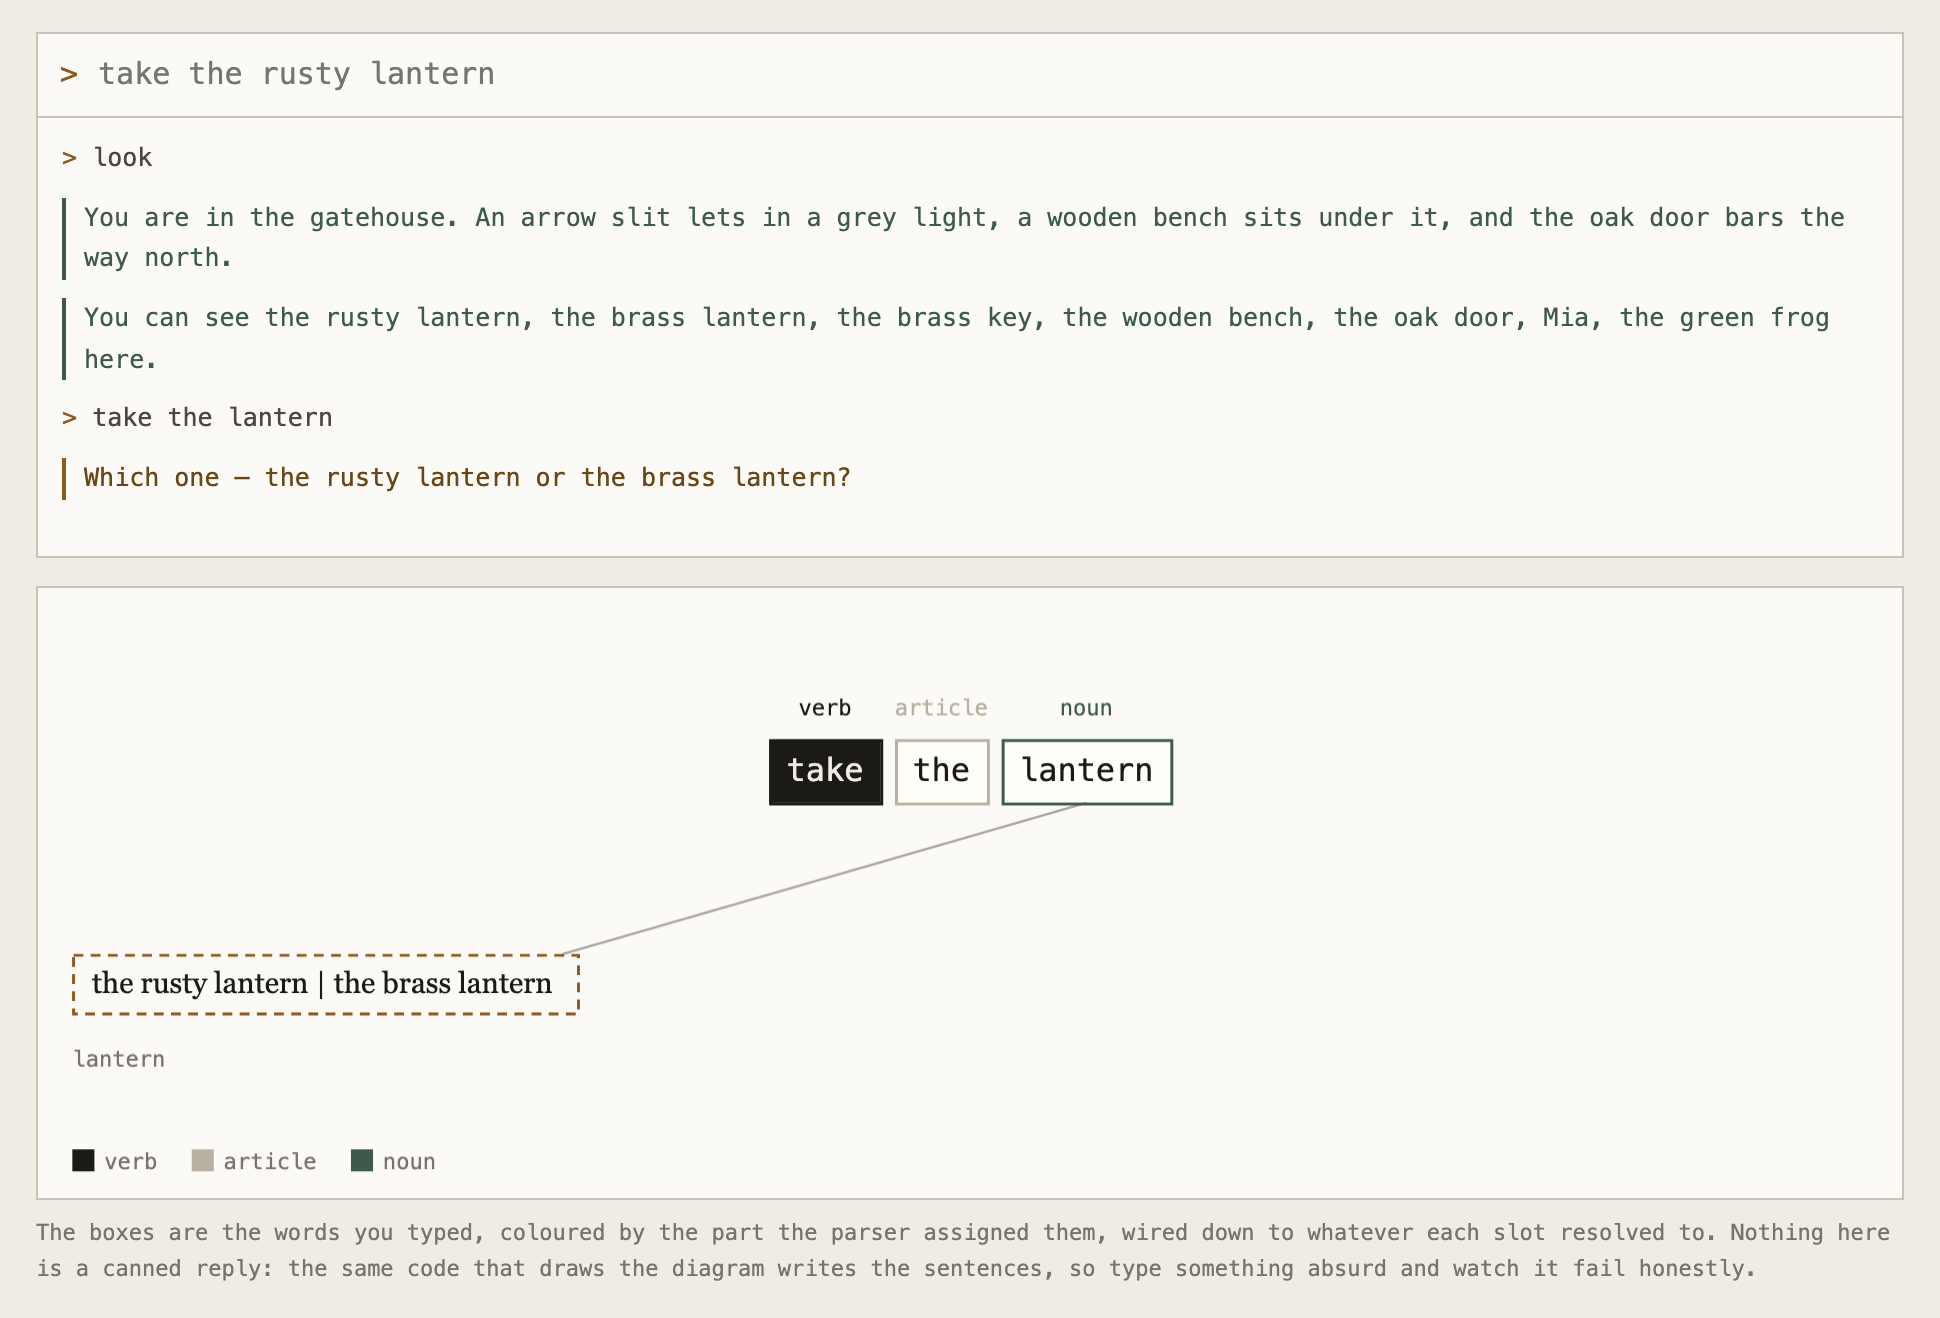
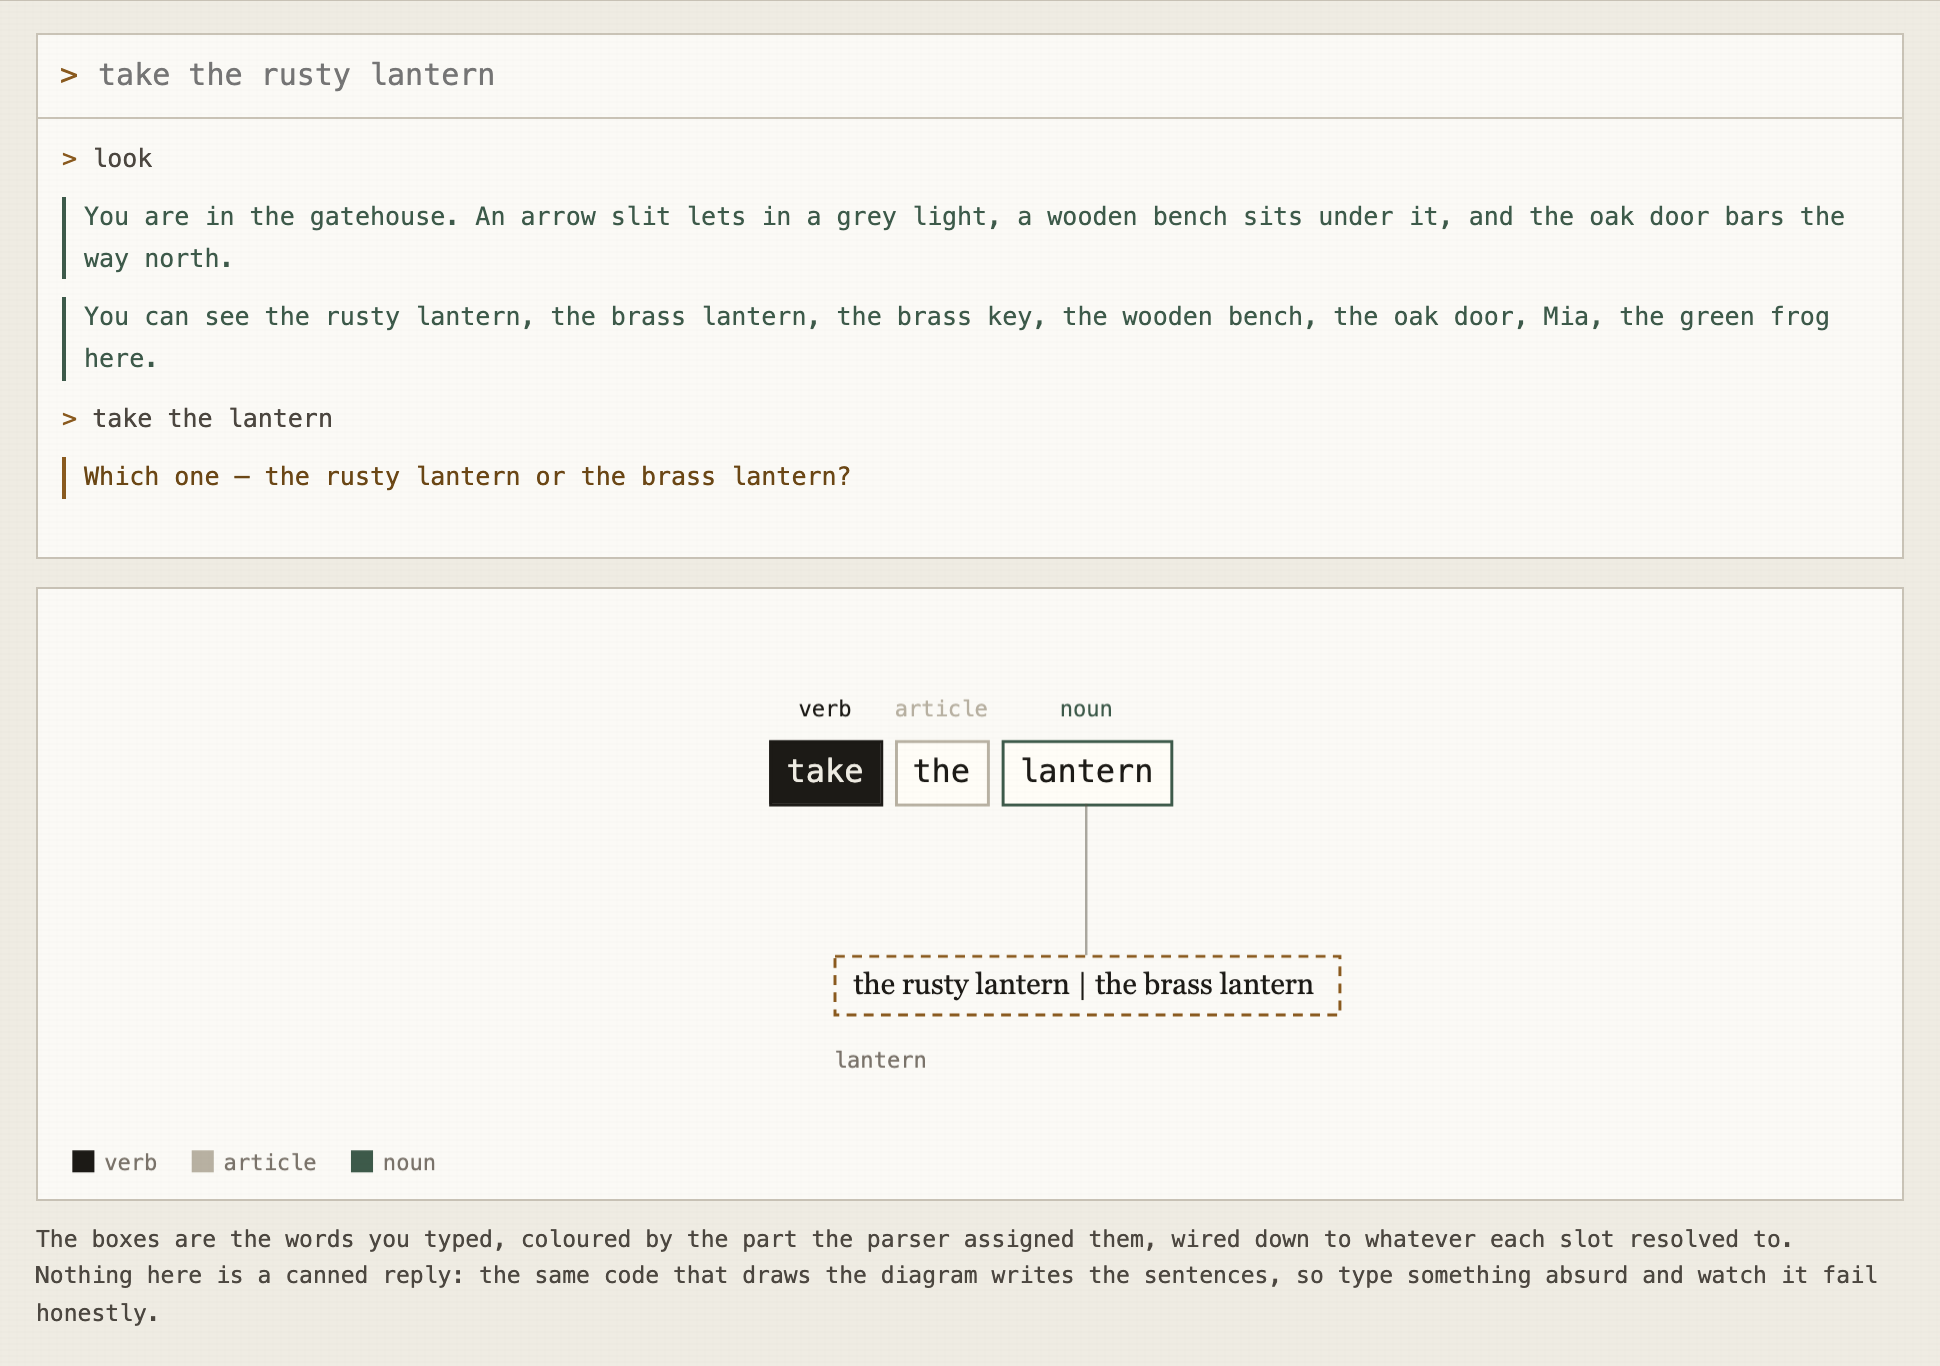
Bring the two tool pages up to the homepage's standard
They were built function-first and it showed. Three faults they shared:

- The masthead was a 22px word and a line of grey mono, next to a homepage
  with a real name block. Both now carry a serif wordmark, a tagline, and a
  right-hand facts line, and both get the same paper fibre as the homepage,
  so the three pages read as one product.
- Instructions were walls of 11px grey mono. Roomsmith's three operations are
  now a marked list with the word in ink and the explanation in grey; the
  parser's grammar notes became four marked rules with the prose kept as the
  footnote. Hint text is 11.5px in ink2 and capped at 78 characters.
- Roomsmith's direction pad sat at .4 opacity when the exit tool was not
  active, which reads as broken rather than idle. It is .55 now.

The parser diagram had a layout bug of its own: resolved boxes were packed
from the left edge, so a two-slot command left the entire right half of the
canvas empty and the boxes bore no relation to the words that produced them.
They are measured first, then dropped under the centre of their own anchors.

Captures on the homepage re-shot from these builds, since the page claims
they come from the current one. Both suites still pass: 21 for Roomsmith,
52 for the parser.

diff --git a/parser/index.html b/parser/index.html
@@ -11,13 +11,19 @@
   --brass:#8a5a1e;--oxide:#3d5a4a;--bad:#9a3a2a;--panel:#e6e2d7}
 *{box-sizing:border-box}
 body{margin:0;background:var(--paper);color:var(--ink);font:16px/1.6 Georgia,'Times New Roman',serif}
+body::before{content:"";position:fixed;inset:0;pointer-events:none;opacity:.5;
+  background-image:repeating-linear-gradient(0deg,rgba(0,0,0,.014) 0 1px,transparent 1px 3px),
+                   repeating-linear-gradient(90deg,rgba(0,0,0,.01) 0 1px,transparent 1px 4px)}
 .mono{font-family:ui-monospace,Menlo,Consolas,monospace}
-header{display:flex;gap:14px;align-items:baseline;padding:18px 20px 14px;border-bottom:3px double var(--rule);flex-wrap:wrap}
-h1{font-size:22px;margin:0;font-weight:400}
+header{display:flex;gap:18px;align-items:flex-end;padding:26px 22px 16px;border-bottom:3px double var(--rule);flex-wrap:wrap}
+h1{font-size:clamp(26px,3.4vw,36px);line-height:1;margin:0;font-weight:400;letter-spacing:-.01em}
 h1 b{font-weight:700}
-header p{margin:0;font:11px/1.5 ui-monospace,Menlo,monospace;color:var(--ink3);letter-spacing:.05em}
-.back{margin-left:auto;font:12px/1 ui-monospace,Menlo,monospace;color:var(--ink3);text-decoration:none}
-.back:hover{color:var(--brass)}
+.tag{margin:7px 0 0;font:11px/1.5 ui-monospace,Menlo,monospace;color:var(--ink2);letter-spacing:.05em}
+.mast-r{margin-left:auto;display:grid;gap:7px;justify-items:end;text-align:right}
+.mast-r .facts{font:11px/1.5 ui-monospace,Menlo,monospace;color:var(--ink3)}
+.back{font:12px/1 ui-monospace,Menlo,monospace;color:var(--ink2);text-decoration:none;
+  border-bottom:1px solid var(--rule)}
+.back:hover{color:var(--brass);border-bottom-color:var(--brass)}
 main{display:grid;grid-template-columns:220px 1fr 250px;gap:0;align-items:start}
 @media(max-width:900px){main{grid-template-columns:1fr}}
 .panel{padding:14px 16px;border-right:1px solid var(--rule)}
@@ -45,16 +51,27 @@ ul.world{list-style:none;margin:0;padding:0;font:11.5px/1.6 ui-monospace,Menlo,m
 ul.world li{padding:3px 0;border-bottom:1px dotted var(--rule)}
 ul.world li b{font-weight:400;color:var(--ink)}
 ul.world li em{font-style:normal;color:var(--brass)}
-.hint{font:11px/1.6 ui-monospace,Menlo,monospace;color:var(--ink3);margin:8px 0 0}
+.hint{font:11.5px/1.65 ui-monospace,Menlo,monospace;color:var(--ink2);margin:10px 0 0}
+.hint b{color:var(--ink);font-weight:700}
+ul.steps{list-style:none;margin:10px 0 0;padding:0;font:11.5px/1.6 ui-monospace,Menlo,monospace;color:var(--ink2)}
+ul.steps li{padding-left:17px;position:relative;margin-bottom:8px}
+ul.steps li::before{content:"";position:absolute;left:0;top:.55em;width:6px;height:6px;
+  background:var(--brass);opacity:.8}
+ul.steps b{color:var(--ink);font-weight:700}
 #tree{margin:0;font:11px/1.55 ui-monospace,Menlo,monospace;color:var(--ink2);white-space:pre-wrap;
   background:#fbfaf6;border:1px solid var(--rule);padding:9px 10px;min-height:120px}
 </style>
 </head>
 <body>
 <header>
-  <h1>PARSER<b>LAB</b></h1>
-  <p class="mono">the command grammar from a MUD server, pulled out and rewritten small</p>
-  <a class="back mono" href="../">&larr; portfolio</a>
+  <div>
+    <h1>PARSER<b>LAB</b></h1>
+    <p class="tag">the command grammar from a MUD server, pulled out and rewritten small</p>
+  </div>
+  <div class="mast-r">
+    <a class="back mono" href="../">&larr; portfolio</a>
+    <span class="facts">vanilla js · no build · every reply generated</span>
+  </div>
 </header>
 
 <main>
@@ -98,14 +115,15 @@ ul.world li em{font-style:normal;color:var(--brass)}
     </div>
     <div class="group">
       <h2>How it reads you</h2>
-      <p class="hint">Verb first, then noun phrases, then a preposition with its own noun phrase.
-        A noun phrase is articles and fillers, then modifiers, then a noun. Any word left over
-        disqualifies the candidate rather than being ignored, so the parser never pretends to
-        understand <span class="mono">the green lantern</span> when no green lantern exists.</p>
-      <p class="hint">Two matches of equal strength is a question, not a coin toss. The parser
-        remembers the command it could not finish and takes the next bare answer —
-        <span class="mono">rusty</span>, <span class="mono">the brass one</span>,
-        <span class="mono">2</span> — as the rest of it.</p>
+      <ul class="steps">
+        <li><b>verb</b> first, then noun phrases, then a preposition with its own noun phrase</li>
+        <li>a noun phrase is <b>articles</b>, then <b>modifiers</b>, then a <b>noun</b></li>
+        <li>any word left over <b>disqualifies</b> the candidate rather than being ignored</li>
+        <li>two matches of equal strength is a <b>question</b>, not a coin toss</li>
+      </ul>
+      <p class="hint">So it never pretends to understand <b>the green lantern</b> when no green lantern
+        exists — and when it has to ask, it remembers the command it could not finish and takes your
+        next bare answer, <b>rusty</b> or <b>2</b>, as the rest of it.</p>
     </div>
   </div>
 </main>
@@ -513,15 +531,24 @@ function diagram(res) {
 
   const slots = last.resolved || [];
   const rowY = 150, legY = 196;
-  let sx = pad;
-  slots.forEach(s => {
-    // the anchors are the words that actually sat in this slot, so the lines
-    // cannot drift when a command has two object slots
+  // Measure every resolved box first, then drop each one under the words that
+  // produced it. Packing them from the left edge left the whole right half of
+  // the canvas empty, which made a two-slot command look unrelated to itself.
+  ctx.font = '12px Georgia, serif';
+  const laid = slots.map(s => {
     const anchors = boxes.filter(b => s.words.includes(b.t.w) && b.t.role !== 'verb');
     const label = s.kind === 'one' ? s.objs.map(o => o.the).join(' + ') :
       s.kind === 'many' ? s.objs.map(o => o.the).join(' | ') : 'nothing here matches';
-    ctx.font = '12px Georgia, serif'; ctx.textAlign = 'left';
-    const w = Math.max(70, Math.min(BASE_W - pad - sx, ctx.measureText(label).width + 18));
+    const w = Math.max(70, ctx.measureText(label).width + 18);
+    const want = anchors.length ? anchors.reduce((a, b) => a + cx(b), 0) / anchors.length : BASE_W / 2;
+    return {s, anchors, label, w, want};
+  });
+  let prev = pad;
+  laid.forEach(item => {
+    item.x = Math.min(Math.max(item.want - item.w / 2, prev), BASE_W - pad - item.w);
+    prev = item.x + item.w + 22;
+  });
+  laid.forEach(({s, anchors, label, w, x: sx}) => {
     ctx.strokeStyle = s.kind === 'one' ? '#3d5a4a' : s.kind === 'many' ? '#8a5a1e' : '#9a3a2a';
     ctx.setLineDash(s.kind === 'many' ? [4, 3] : []);
     ctx.fillStyle = '#fbfaf6';
@@ -545,7 +572,6 @@ function diagram(res) {
     }
     ctx.fillStyle = '#7a736a'; ctx.font = '9px ui-monospace, Menlo, monospace'; ctx.textAlign = 'left';
     ctx.fillText((s.prep ? s.prep + ' ' : '') + s.words.join(' '), sx, legY);
-    sx += w + 26;
   });
 
   const keys = Object.keys(ROLE_COLOR).filter(k => toks.some(t => t.role === k));

diff --git a/roomsmith/index.html b/roomsmith/index.html
@@ -11,13 +11,19 @@
   --brass:#8a5a1e;--oxide:#3d5a4a;--bad:#9a3a2a;--panel:#e6e2d7}
 *{box-sizing:border-box}
 body{margin:0;background:var(--paper);color:var(--ink);font:16px/1.6 Georgia,'Times New Roman',serif}
+body::before{content:"";position:fixed;inset:0;pointer-events:none;opacity:.5;
+  background-image:repeating-linear-gradient(0deg,rgba(0,0,0,.014) 0 1px,transparent 1px 3px),
+                   repeating-linear-gradient(90deg,rgba(0,0,0,.01) 0 1px,transparent 1px 4px)}
 .mono{font-family:ui-monospace,Menlo,Consolas,monospace}
-header{display:flex;gap:14px;align-items:baseline;padding:18px 20px 14px;border-bottom:3px double var(--rule);flex-wrap:wrap}
-h1{font-size:22px;margin:0;font-weight:400}
+header{display:flex;gap:18px;align-items:flex-end;padding:26px 22px 16px;border-bottom:3px double var(--rule);flex-wrap:wrap}
+h1{font-size:clamp(26px,3.4vw,36px);line-height:1;margin:0;font-weight:400;letter-spacing:-.01em}
 h1 b{font-weight:700}
-header p{margin:0;font:11px/1.5 ui-monospace,Menlo,monospace;color:var(--ink3);letter-spacing:.05em}
-.back{margin-left:auto;font:12px/1 ui-monospace,Menlo,monospace;color:var(--ink3);text-decoration:none;border:0}
-.back:hover{color:var(--brass)}
+.tag{margin:7px 0 0;font:11px/1.5 ui-monospace,Menlo,monospace;color:var(--ink2);letter-spacing:.05em}
+.mast-r{margin-left:auto;display:grid;gap:7px;justify-items:end;text-align:right}
+.mast-r .facts{font:11px/1.5 ui-monospace,Menlo,monospace;color:var(--ink3)}
+.back{font:12px/1 ui-monospace,Menlo,monospace;color:var(--ink2);text-decoration:none;
+  border-bottom:1px solid var(--rule)}
+.back:hover{color:var(--brass);border-bottom-color:var(--brass)}
 main{display:grid;grid-template-columns:230px 1fr 260px;gap:0;align-items:start}
 @media(max-width:900px){main{grid-template-columns:1fr}}
 .panel{padding:14px 16px;border-right:1px solid var(--rule)}
@@ -40,16 +46,27 @@ ul.issues li.bad{background:#f7e9e5;border-left-color:var(--bad)}
 ul.issues li.ok{background:#e9f0e8;border-left-color:var(--oxide)}
 textarea{width:100%;height:150px;font:11px/1.5 ui-monospace,Menlo,monospace;border:1px solid var(--rule);
   background:#fbfaf6;color:var(--ink);padding:8px;resize:vertical}
-.hint{font:11px/1.6 ui-monospace,Menlo,monospace;color:var(--ink3);margin:8px 0 0}
+.hint{font:11.5px/1.65 ui-monospace,Menlo,monospace;color:var(--ink2);margin:10px 0 0}
+.hint b{color:var(--ink);font-weight:700}
+ul.steps{list-style:none;margin:10px 0 0;padding:0;font:11.5px/1.6 ui-monospace,Menlo,monospace;color:var(--ink2)}
+ul.steps li{padding-left:17px;position:relative;margin-bottom:8px}
+ul.steps li::before{content:"";position:absolute;left:0;top:.55em;width:6px;height:6px;
+  background:var(--brass);opacity:.8}
+ul.steps b{color:var(--ink);font-weight:700}
 .row{display:flex;gap:6px;margin-top:8px}
 .row button{width:auto;flex:1;text-align:center}
 </style>
 </head>
 <body>
 <header>
-  <h1>ROOM<b>SMITH</b></h1>
-  <p class="mono">level graph editor · exports the coordinates a mapper draws from</p>
-  <a class="back mono" href="../">← portfolio</a>
+  <div>
+    <h1>ROOM<b>SMITH</b></h1>
+    <p class="tag">level graph editor · exports the coordinates a mapper draws from</p>
+  </div>
+  <div class="mast-r">
+    <a class="back mono" href="../">← portfolio</a>
+    <span class="facts">vanilla js · no build · nothing saved anywhere</span>
+  </div>
 </header>
 
 <main>
@@ -61,8 +78,13 @@ textarea{width:100%;height:150px;font:11px/1.5 ui-monospace,Menlo,monospace;bord
         <button id="tLink">exit</button>
         <button id="tDel">delete</button>
       </div>
-      <p class="hint">Room: click empty grid. Exit: click the source room, then the far room, then the direction. Middle-drag pans, "fit view" re-frames.</p>
-      <p class="hint">On the map the cardinals are n / s / e / w and the arrow points where the exit goes; dashed links are up, down, in and out. Hover a room to read its exits in full.</p>
+      <ul class="steps">
+        <li><b>room</b> — click an empty square</li>
+        <li><b>exit</b> — click the source, then the far room, then the direction</li>
+        <li><b>pan</b> — middle-drag; <b>fit view</b> re-frames the map</li>
+      </ul>
+      <p class="hint">On the map the cardinals are <b>n / s / e / w</b> and the arrow points where the
+        exit goes. Dashed links are up, down, in and out. Hover a room to read its exits in full.</p>
     </div>
     <div class="group" id="dirGroup" style="opacity:.4">
       <h2>Exit direction (source &rarr; far room)</h2>
